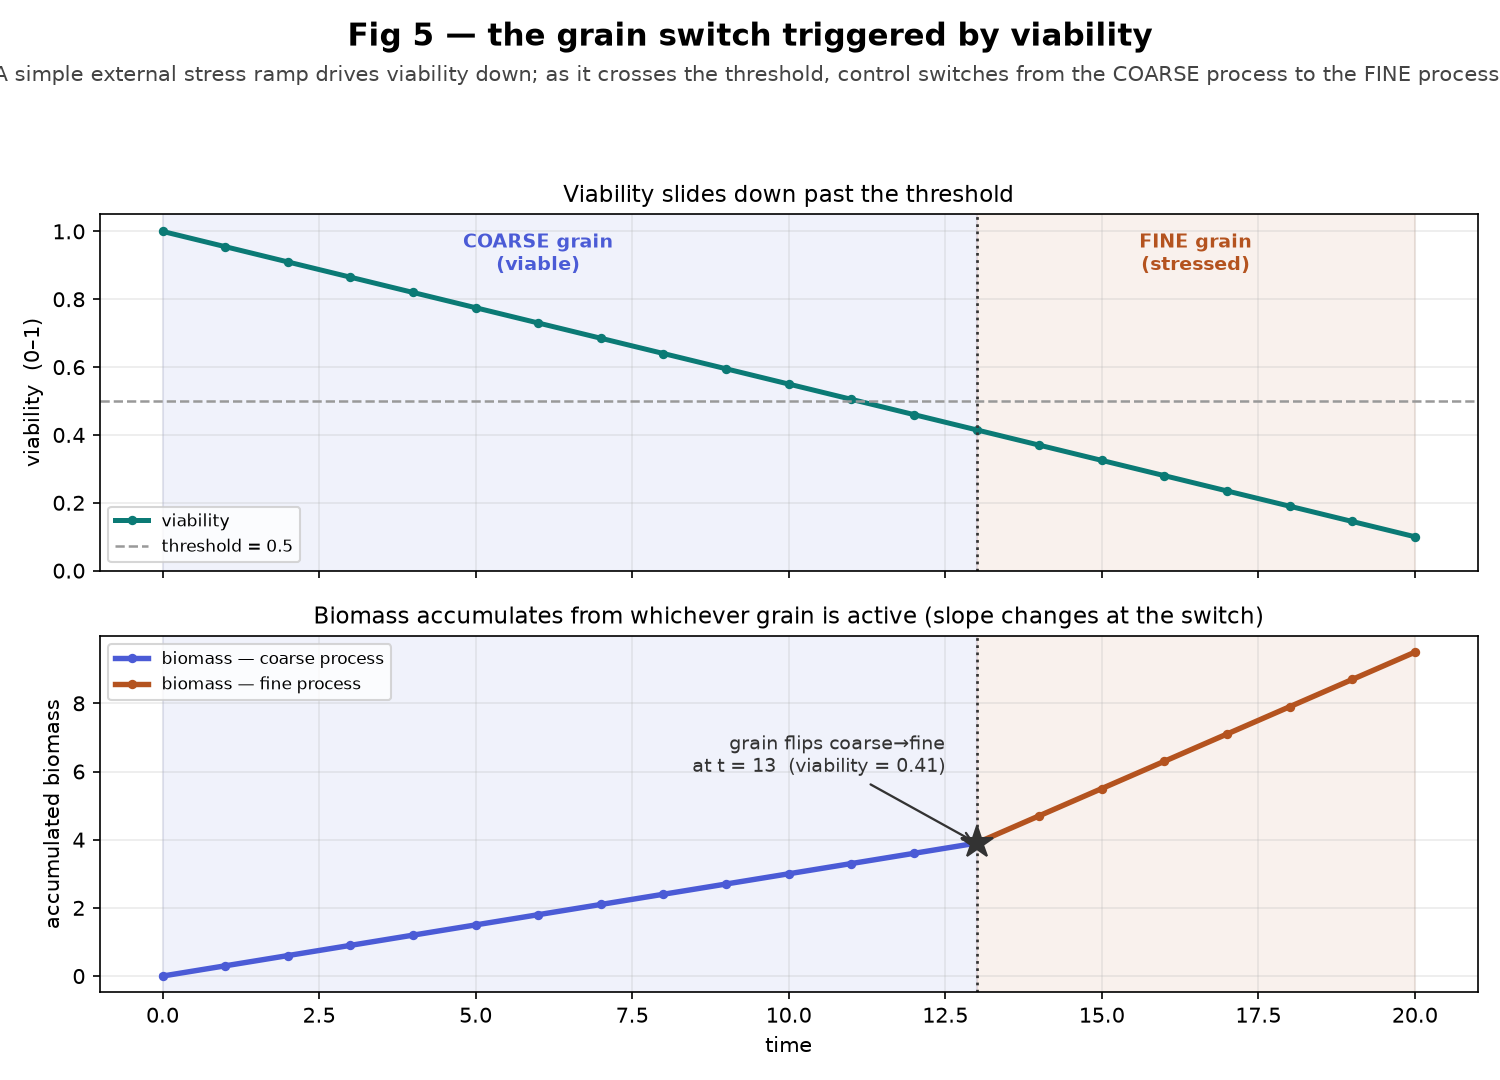
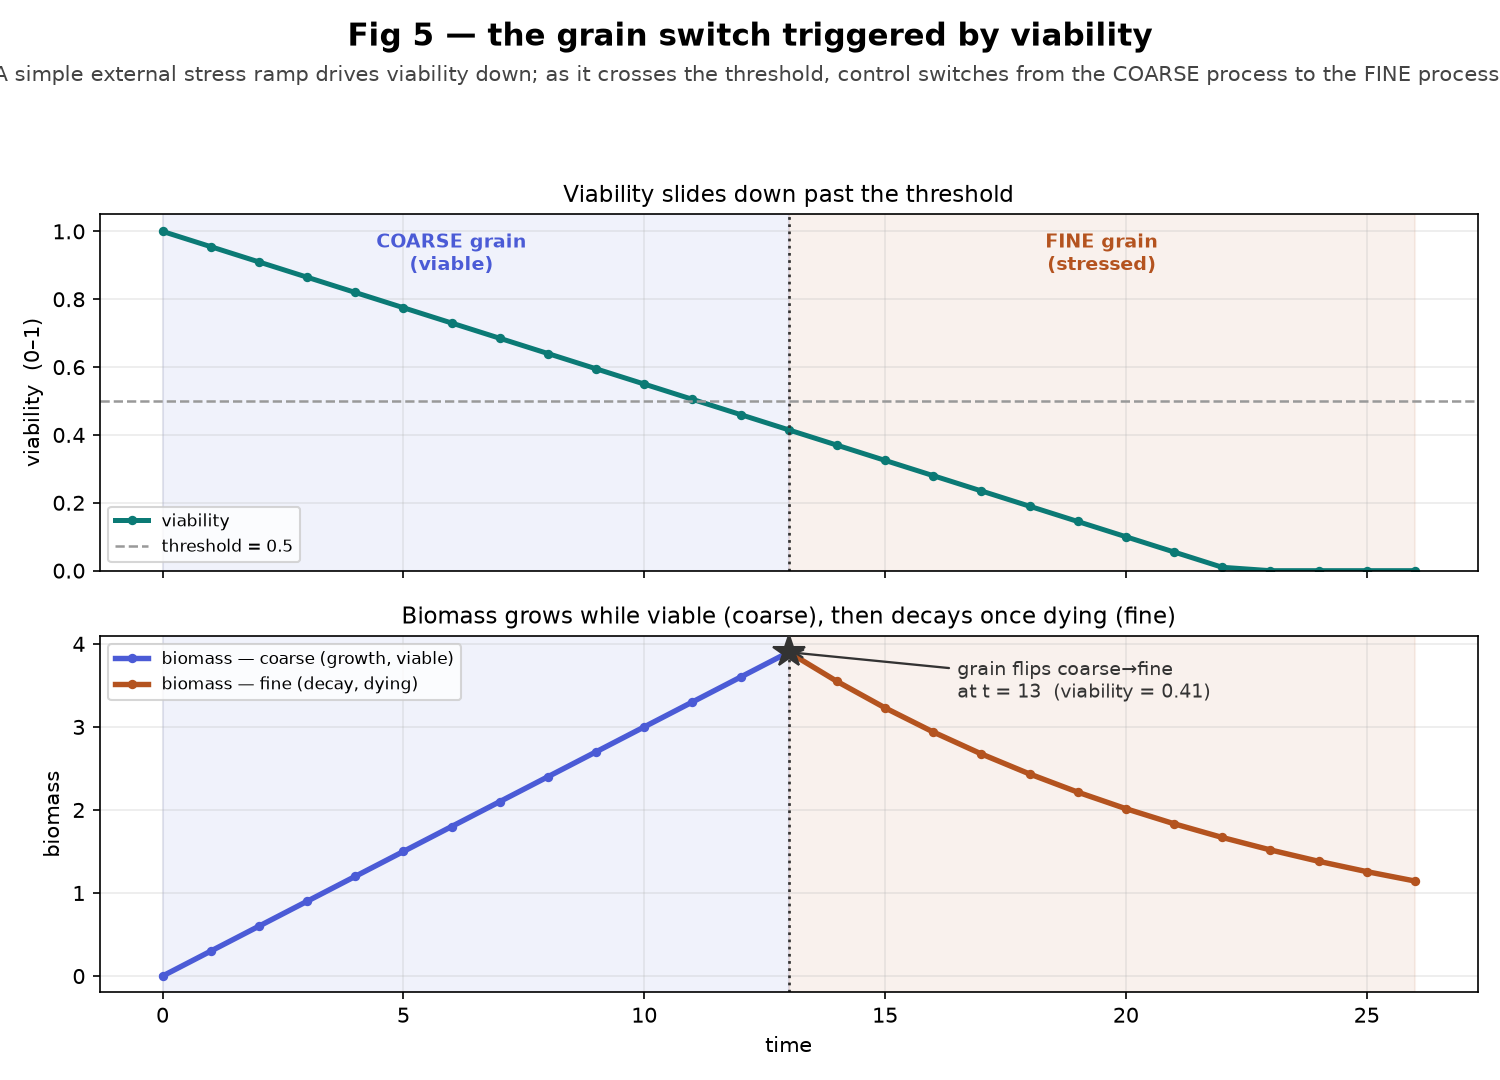
fig 5: fine grain models DEATH — biomass grows while viable, decays once dying
Per the biology, the viability threshold is the life→death transition: while viable
the COARSE grain grows biomass (linear yield); once viability crosses below the
threshold the FINE grain resolves the dying regime — biomass stops growing and
DECAYS first-order (and energy drains). The biomass trajectory now TURNS OVER at the
switch (peaks, then declines) instead of accumulating faster. Rewired FineGrainProcess
to read/decay biomass+energy; retuned the run to 26 steps so the decay is visible;
updated the viz (growth→decay, no title/annotation collision) and the test (biomass
grows to the flip, then strictly decays).

diff --git a/tests/test_fig05_grain_swap.py b/tests/test_fig05_grain_swap.py
@@ -3,16 +3,17 @@
 The runnable fig05 composite (meta_modelers_guide.composites.fig05-grain-runnable)
 drives a cell's viability down with a simple external stress ramp; a GrainSelector
 swaps which grain realizes the shared interface as viability crosses a threshold.
-Two gated processes realize the same biomass output at different grains — a cheap
-coarse linear yield and a mechanistic fine Michaelis-Menten law — and exactly one
+Two gated processes act on the same biomass output at different grains — a coarse
+linear GROWTH while viable and a fine first-order DECAY once dying — and exactly one
 runs per tick. This test asserts the CAUSAL claims the figure makes:
 
   (a) while viability >= threshold, active_grain == "coarse";
   (b) once viability drops below threshold the grain becomes "fine" and STAYS fine;
   (c) the switch happens at the tick where viability crosses the threshold (+/- 1);
   (d) the gate hands control over: driven at active_grain="coarse" only the coarse
-      process produces biomass, at "fine" only the fine process does — and biomass
-      keeps accumulating from whichever grain is active across the run.
+      process runs (grows biomass), at "fine" only the fine process runs (decays it);
+  (e) the biomass trajectory turns over — it GROWS while viable, then DECAYS once the
+      cell crosses the viability boundary and the fine (dying) grain takes over.
 
 Mirrors test_fig10_topology.py (run the composite, assert on the emitted frames).
 """
@@ -83,24 +84,35 @@ def test_gate_hands_control_to_the_active_grain():
     fine = FineGrainProcess({}, core=core)
 
     def drive(proc, active):
-        return proc.update({"inflow": 1.0, "active_grain": active}, 1.0)
+        # supply a standing biomass/energy so the fine (decay) grain has something
+        # to act on; the coarse (growth) grain reads inflow.
+        return proc.update(
+            {"inflow": 1.0, "biomass": 2.0, "energy": 1.0, "active_grain": active}, 1.0)
 
-    # coarse is selected: only the coarse process produces; the fine one is inert.
+    # coarse is selected: only the coarse process runs (GROWS biomass); fine inert.
     assert drive(coarse, "coarse").get("biomass", 0.0) > 0.0
     assert drive(fine, "coarse") == {}
-    # fine is selected: only the fine process produces; the coarse one is inert.
-    assert drive(fine, "fine").get("biomass", 0.0) > 0.0
+    # fine is selected: only the fine process runs (DECAYS biomass); coarse inert.
+    assert drive(fine, "fine").get("biomass", 0.0) < 0.0
     assert drive(coarse, "fine") == {}
-    # the two grains produce DISTINGUISHABLE biomass (the switch is visible).
-    assert abs(drive(coarse, "coarse")["biomass"] - drive(fine, "fine")["biomass"]) > 0.1
+    # the grains act in OPPOSITE directions on biomass — coarse grows, fine decays.
+    assert drive(coarse, "coarse")["biomass"] > 0.0 > drive(fine, "fine")["biomass"]
 
 
-def test_biomass_accumulates_across_the_switch():
+def test_biomass_grows_then_decays_at_the_switch():
+    """Alive (coarse): biomass grows. Past the viability threshold (fine): the cell
+    is dying, so biomass turns over and decays. Anchored on the grain flip (the
+    biomass peaks there), robust to the one-tick handover lag."""
     viab, grain, bio = _cols(_run_trajectory())
-    cross = next(i for i, v in enumerate(viab) if v < THRESHOLD)
     assert bio[0] == 0.0
-    assert bio[cross] > 0.0, "coarse grain should have built biomass before the switch"
-    assert bio[-1] > bio[cross], "fine grain should keep building biomass after the switch"
-    # biomass is non-decreasing throughout (production only, never lost).
-    for a, b in zip(bio, bio[1:]):
-        assert b >= a - 1e-9
+    flip = next(i for i, g in enumerate(grain) if g == "fine")
+    # growth phase: biomass builds monotonically while the coarse grain is active.
+    for a, b in zip(bio[:flip], bio[1:flip + 1]):
+        assert b >= a - 1e-9, "biomass must not fall while still viable (coarse)"
+    assert bio[flip - 1] > bio[0], "coarse grain should have grown biomass before the switch"
+    # the biomass peaks at the switch, then decays under the fine (dying) grain.
+    peak = max(bio)
+    assert abs(bio.index(peak) - flip) <= 1, "biomass should peak at the coarse→fine switch"
+    assert bio[-1] < bio[flip - 1], "fine grain should decay biomass after the switch"
+    for a, b in zip(bio[flip:], bio[flip + 1:]):
+        assert b <= a + 1e-9, "biomass must not rise once dying (fine)"

diff --git a/meta_modelers_guide/fig05_grain.py b/meta_modelers_guide/fig05_grain.py
@@ -3,13 +3,15 @@
 The runnable demonstration behind Fig 5b's *grain swap*. A cell's ``viability`` is
 driven down by a simple external stress ramp. A :class:`GrainSelector` watches
 that signal and picks which grain realizes the shared interface: while the cell is
-comfortably viable the cheap **coarse** grain suffices; once viability falls below
-a threshold the mechanistic **fine** grain is swapped in to resolve the regime that
-matters near the boundary. Two gated processes realize the same ``biomass`` output
-at different grains — :class:`CoarseGrainProcess` (cheap linear yield) and
-:class:`FineGrainProcess` (saturating Michaelis–Menten kinetics) — and exactly one
-is active per tick, so as viability slides past the threshold **control switches
-from the coarse process to the fine process** on-screen.
+comfortably viable the cheap **coarse** grain grows its biomass; once viability
+falls below a threshold the mechanistic **fine** grain is swapped in to resolve the
+regime that matters at the boundary — the cell is dying, so biomass stops growing
+and DECAYS. Two gated processes act on the same ``biomass`` output at different
+grains — :class:`CoarseGrainProcess` (linear growth while viable) and
+:class:`FineGrainProcess` (first-order decay once past the threshold) — and exactly
+one is active per tick, so as viability slides past the threshold **control switches
+from the coarse growth process to the fine decay process** on-screen: the biomass
+trajectory turns over from growth to decline.
 
 Decision (spec Pilot B): low viability → fine grain; above threshold → coarse.
 
@@ -99,22 +101,21 @@ class CoarseGrainProcess(Process):
 
 
 class FineGrainProcess(Process):
-    """Fine grain — mechanistic, higher-fidelity realization of the interface.
+    """Fine grain — the mechanistic DEATH/decay regime, resolved once the cell
+    crosses the viability boundary.
 
-    Produces ``biomass`` by a saturating Michaelis–Menten law on ``inflow``
-    (rate = vmax · inflow / (km + inflow)), standing in for resolved kinetics, but
-    ONLY when it is the active grain. When ``active_grain != "fine"`` it returns an
-    empty update (no-op). Its per-step production differs visibly from the coarse
-    grain, so the switch is legible in the biomass trajectory.
+    A viable cell GROWS (the coarse grain adds biomass). Below the viability
+    threshold the cell has stopped growing and is dying: its ``biomass`` now DECAYS
+    first-order — dX/dt = −decay_rate·biomass, and its ``energy`` reserve drains
+    with it — the dynamics the coarse growth model cannot capture. Active ONLY when
+    ``active_grain == "fine"``; otherwise a no-op. So at the switch the biomass
+    trajectory turns over: growth → arrest → decay.
     """
 
-    config_schema = {
-        "vmax": _f(1.2), "km": _f(0.5),
-        "biomass_yield": _f(1.0), "energy_yield": _f(0.6),
-    }
+    config_schema = {"decay_rate": _f(0.09), "energy_decay": _f(0.09)}
 
     def inputs(self):
-        return {"inflow": "chemical_flux", "active_grain": "string"}
+        return {"biomass": "mass", "energy": "energy", "active_grain": "string"}
 
     def outputs(self):
         return {"biomass": "mass", "energy": "energy"}
@@ -122,10 +123,10 @@ class FineGrainProcess(Process):
     def update(self, state, interval):
         if state.get("active_grain") != "fine":
             return {}
-        n = float(state.get("inflow", 0.0))
+        x = float(state.get("biomass", 0.0))
+        e = float(state.get("energy", 0.0))
         c = self.config
-        rate = c["vmax"] * n / (c["km"] + n) if (c["km"] + n) else 0.0
         return {
-            "biomass": c["biomass_yield"] * rate * interval,
-            "energy": c["energy_yield"] * rate * interval,
+            "biomass": -c["decay_rate"] * x * interval,
+            "energy": -c["energy_decay"] * e * interval,
         }

diff --git a/scripts/build_fig05_grain_dynamics.py b/scripts/build_fig05_grain_dynamics.py
@@ -66,7 +66,8 @@ def main() -> None:
     assert grain[flip] == "fine" and all(g == "fine" for g in grain[flip:]), \
         "once it flips to fine it must stay fine"
     assert abs(flip - cross) <= 1, f"flip ({flip}) should track the crossing ({cross})"
-    assert bio[-1] > bio[cross], "biomass must keep accumulating across the switch"
+    assert bio[flip - 1] > bio[0], "biomass must grow while viable (coarse)"
+    assert bio[-1] < bio[flip - 1], "biomass must decay once dying (fine)"
 
     t_flip = t[flip]
 
@@ -105,19 +106,18 @@ def main() -> None:
     ax.axvspan(t_flip, t[-1], color=C_FINE, alpha=0.08)
     # split the biomass line at the flip so each grain's contribution shows in colour.
     ax.plot(t[:flip + 1], bio[:flip + 1], color=C_COARSE, lw=2.6, marker="o", ms=3.5,
-            label="biomass — coarse process")
+            label="biomass — coarse (growth, viable)")
     ax.plot(t[flip:], bio[flip:], color=C_FINE, lw=2.6, marker="o", ms=3.5,
-            label="biomass — fine process")
+            label="biomass — fine (decay, dying)")
     ax.axvline(t_flip, color="#333", ls=":", lw=1.3)
     ax.plot([t_flip], [bio[flip]], marker="*", ms=16, color="#333", zorder=5)
     ax.annotate(f"grain flips coarse→fine\nat t = {t_flip:.0f}  (viability = {viab[flip]:.2f})",
-                xy=(t_flip, bio[flip]), xytext=(t_flip - 0.5, bio[flip] + (bio[-1] - bio[0]) * 0.22),
-                ha="right", fontsize=9, color="#333",
+                xy=(t_flip, bio[flip]), xytext=(t_flip + 3.5, max(bio) * 0.86),
+                ha="left", fontsize=9, color="#333",
                 arrowprops=dict(arrowstyle="->", color="#333", lw=1.1))
-    ax.set_ylabel("accumulated biomass")
+    ax.set_ylabel("biomass")
     ax.set_xlabel("time")
-    ax.set_title("Biomass accumulates from whichever grain is active "
-                 "(slope changes at the switch)", fontsize=11)
+    ax.set_title("Biomass grows while viable (coarse), then decays once dying (fine)", fontsize=11)
     ax.grid(alpha=0.25)
     ax.legend(fontsize=8, loc="upper left")
 
@@ -128,7 +128,7 @@ def main() -> None:
     print(f"wrote {OUT.relative_to(ROOT)}")
     print(f"  viability   {viab[0]:.3f} → {viab[-1]:.3f}  (crosses {THRESHOLD} at t={cross})")
     print(f"  active_grain flips coarse→fine at t={flip}  (viability there = {viab[flip]:.3f})")
-    print(f"  biomass     {bio[0]:.3f} → {bio[-1]:.3f}  (keeps rising across the switch)")
+    print(f"  biomass     {bio[0]:.3f} → {bio[-1]:.3f}  (grows to the switch, then decays)")
 
 
 if __name__ == "__main__":
